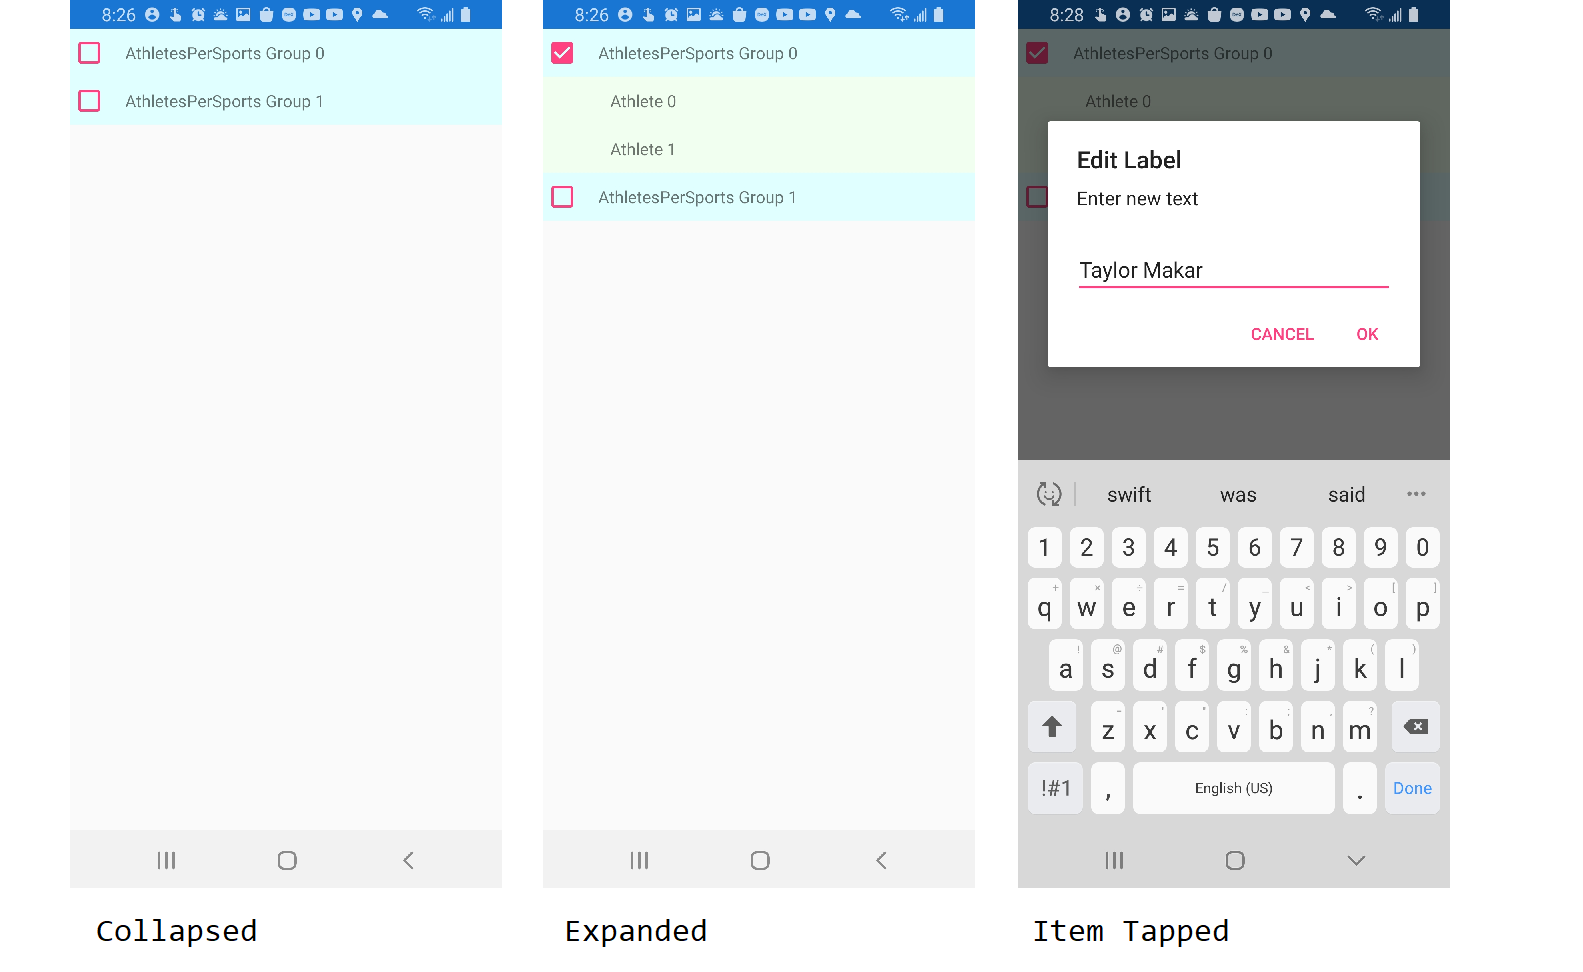
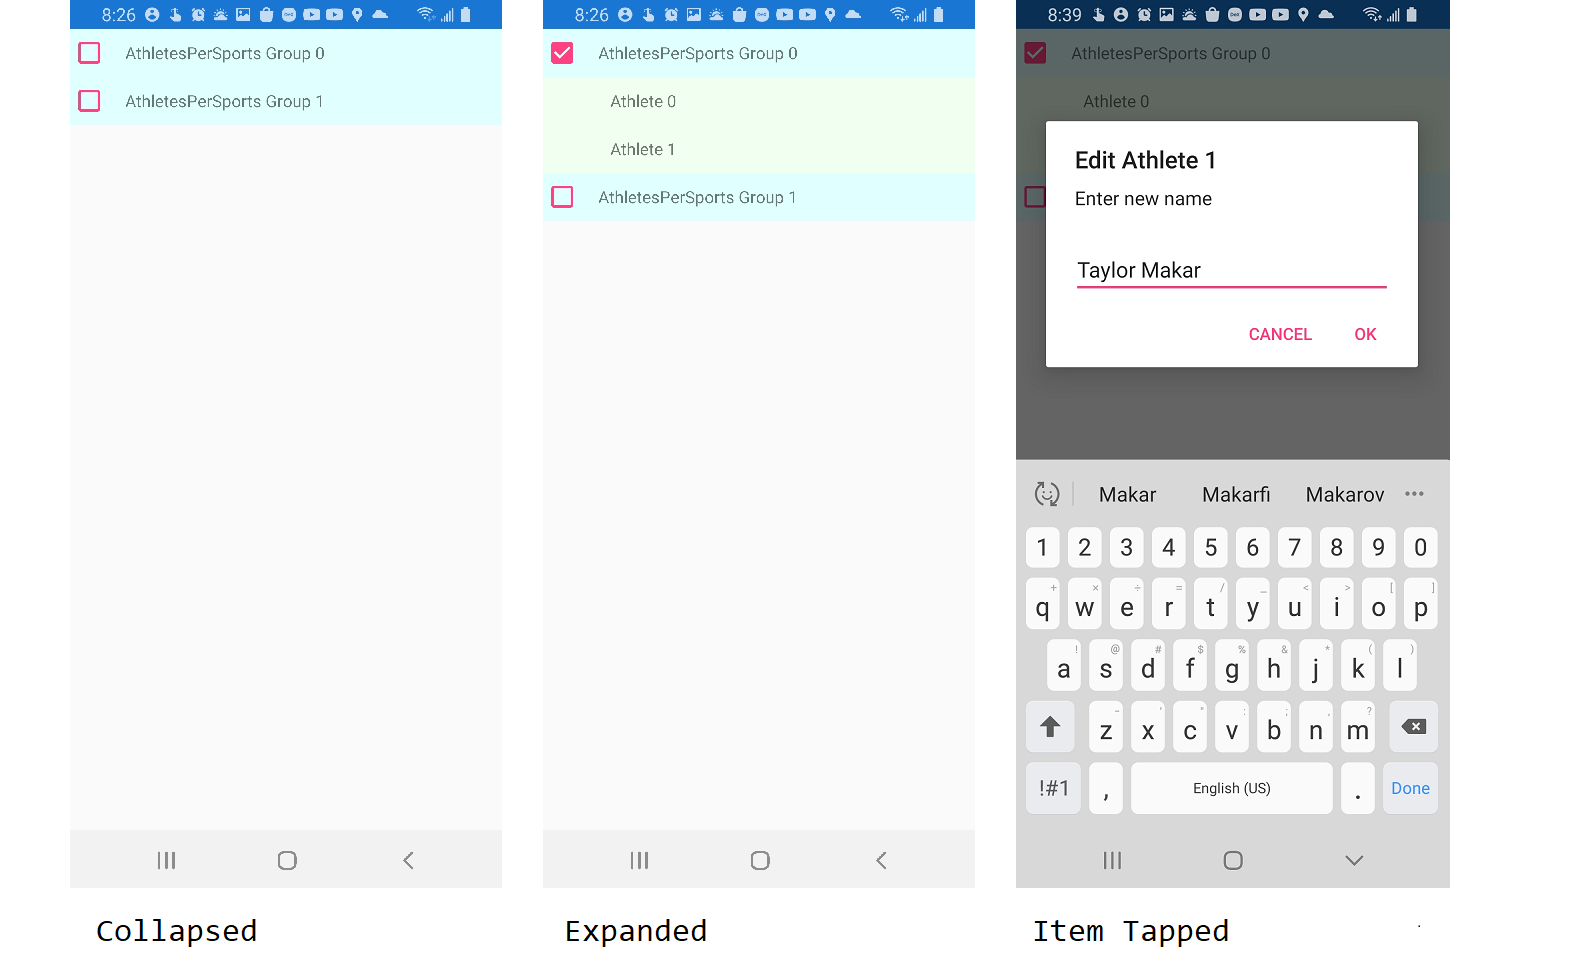
Improved OnTapped

diff --git a/data-template-binding/data-template-binding/MainPage.xaml.cs b/data-template-binding/data-template-binding/MainPage.xaml.cs
@@ -97,7 +97,7 @@ namespace data_template_binding.Model
         public ICommand TappedCommand { get; private set; }
         private async void OnTapped(object o)
         {
-            var rsp = await App.Current.MainPage.DisplayPromptAsync("Edit Label", "Enter new text");
+            var rsp = await App.Current.MainPage.DisplayPromptAsync($"Edit {Name}", "Enter new name");
             if(rsp != null)
             {
                 Name = rsp;
